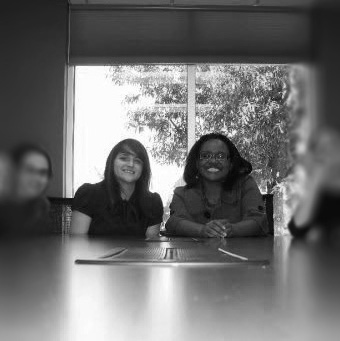
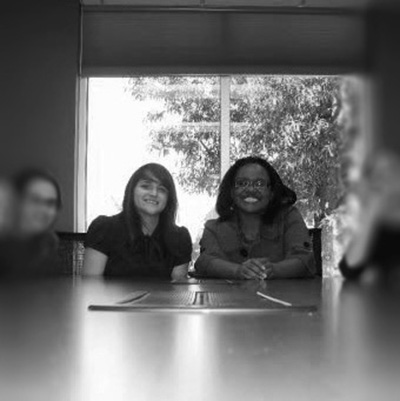
adds now then photos

diff --git a/src/components/Nameplate.svelte b/src/components/Nameplate.svelte
@@ -76,17 +76,29 @@
         out:fly={{ duration: 300, x: name.name === 'Jan' ? -20 : 20 }}
     >
         <p>{name.name}</p>
-        <!-- Jan's Image (Steps 7 & 9) -->
-        {#if name.name === 'Jan' && !introComplete && (currentStep.value === 7 || currentStep.value === 9)}
+        <!-- Jan's Image (Step 7) -->
+        {#if name.name === 'Jan' && !introComplete && (currentStep.value === 7)}
             <div class="img-wrapper" transition:fade={{ duration: 500, delay: 200 }}>
-                <img src="assets/imgs/intro/jan.jpg" alt="Jan" class="intro-img" />
+                <img src="assets/imgs/intro/jan-then.jpg" alt="Jan" class="intro-img" />
             </div>
         {/if}
 
-        <!-- Ashleé's Image (Steps 8 & 9) -->
-        {#if name.name === 'Ashleé' && !introComplete && (currentStep.value === 8 || currentStep.value === 9)}
+        <!-- Ashleé's Image (Step 8) -->
+        {#if name.name === 'Ashleé' && !introComplete && (currentStep.value === 8)}
             <div class="img-wrapper" transition:fade={{ duration: 500, delay: 200 }}>
-                <img src="assets/imgs/intro/ashlee.jpg" alt="Ashleé" class="intro-img" />
+                <img src="assets/imgs/intro/ashlee-then.jpg" alt="Ashleé" class="intro-img" />
+            </div>
+        {/if}
+
+        <!-- Updated images (Step 9) -->
+         {#if name.name === 'Jan' && !introComplete && (currentStep.value === 9)}
+            <div class="img-wrapper" transition:fade={{ duration: 500, delay: 200 }}>
+                <img src="assets/imgs/intro/jan-now.jpg" alt="Jan" class="intro-img" />
+            </div>
+        {/if}
+        {#if name.name === 'Ashleé' && !introComplete && (currentStep.value === 9)}
+            <div class="img-wrapper" transition:fade={{ duration: 500, delay: 200 }}>
+                <img src="assets/imgs/intro/ashlee-now.jpg" alt="Ashleé" class="intro-img" />
             </div>
         {/if}
     </div>
